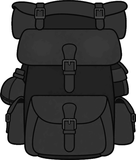
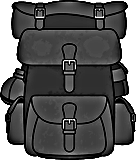
310 — prototype : le sac montre son relief, le pantin 5 % plus étroit
Eric, 27/09 : « Pack je ne vois pas de relief · Pantin réduit largeur de
5 % ». `porte-pack.png` regénérée : réduite à la taille servie ×4 puis
contraste local accentué (masque flou, rayon 4, 260 %) et relevée
(t^0,42, alpha médian 190) — les sangles, poches et la boucle se lisent
à 34 blg. Pantin : 34,4 % → 32,7 % de large.

Changed region(s): [[0.0, 0.0, 1.0, 1.0], [0.2059, 0.4375, 0.2353, 0.5]]

diff --git a/ui/builder/banc-portes-imagees.html b/ui/builder/banc-portes-imagees.html
@@ -48,7 +48,7 @@
   /* ⚖ « Redonne du relief au sac à dos, mais sa taille et sa couleur sont bien » (27/09) : sa silhouette
      garde les variations de l'original, relevées (courbe t^0,35) pour garder le ton des deux autres */
   .img-backpack { --img: url("./assets/porte-pack.png"); --taille: 76.5%; }  /* 85 % puis −10 % */
-  .img-gear { --img: url("./assets/porte-gear.png"); --taille: 34.4% 90%; }  /* l'homme : 90 % de haut, 110 % de large */
+  .img-gear { --img: url("./assets/porte-gear.png"); --taille: 32.7% 90%; }  /* l'homme : 90 % de haut, 110 % puis −5 % de large (« Pantin réduit largeur de 5 % ») */
   /* Wares : ⚖ « Réduit wares de 10 %, centre-le dans le bouton, il ne touche plus le bas » (27/09) —
      90 % de la largeur dans le liseré, centré dans les deux sens */
   .gear .porte-imagee .porte-image.img-wares { inset: calc(var(--bouton-retrait-v) + var(--bouton-lisere-marge) + 1px); --img: url("./assets/porte-wares.png");
